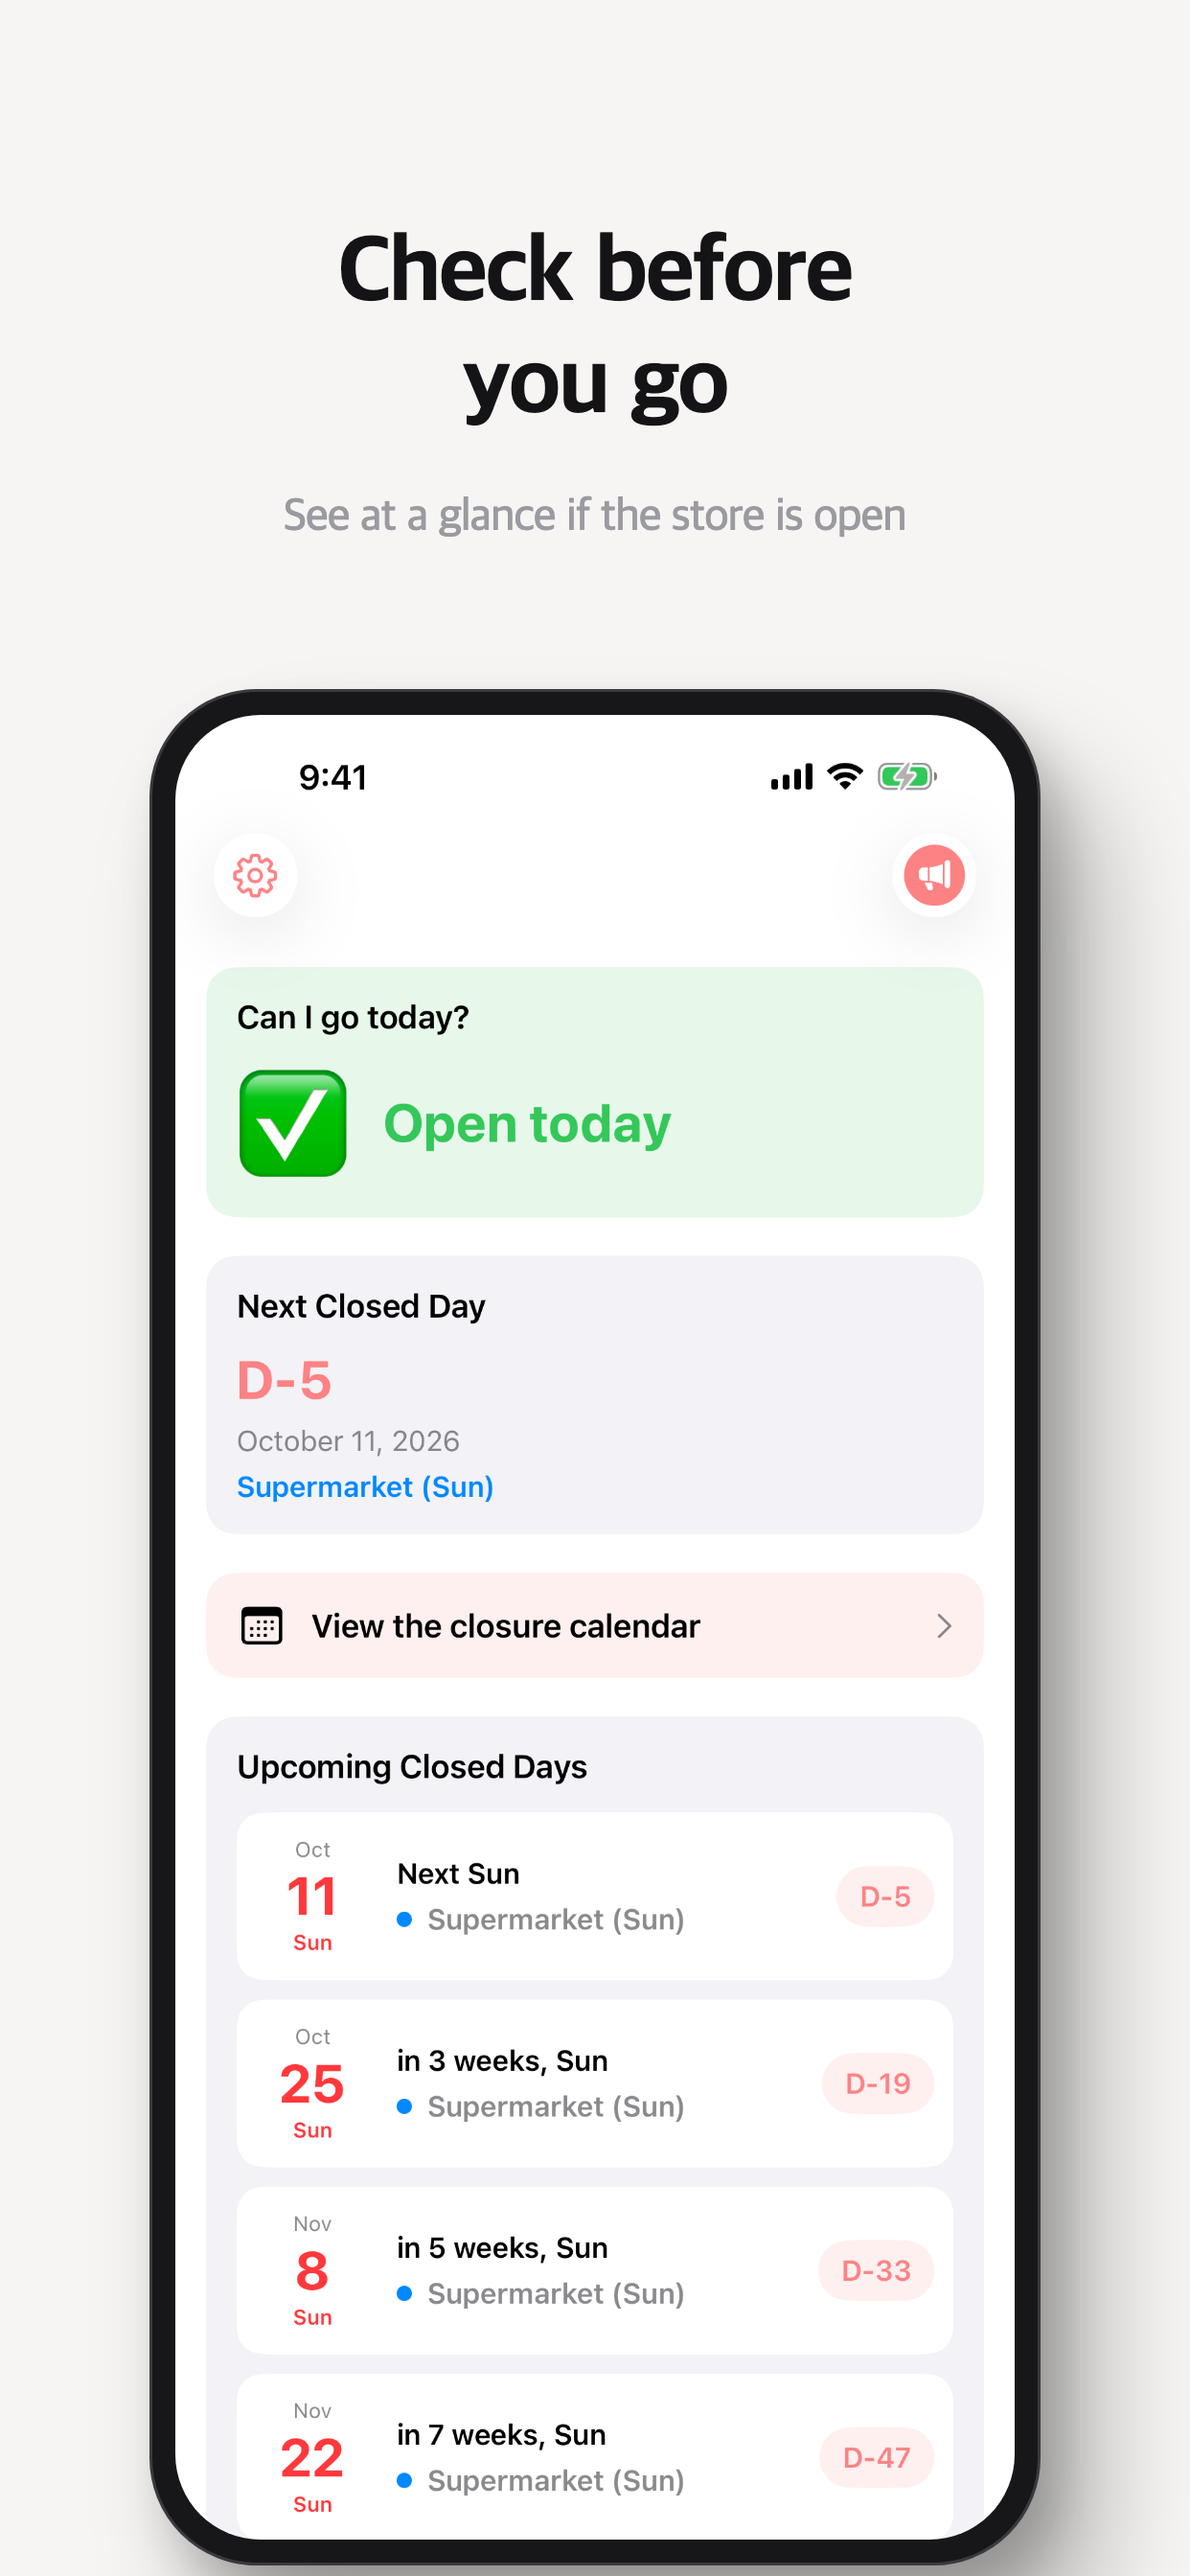
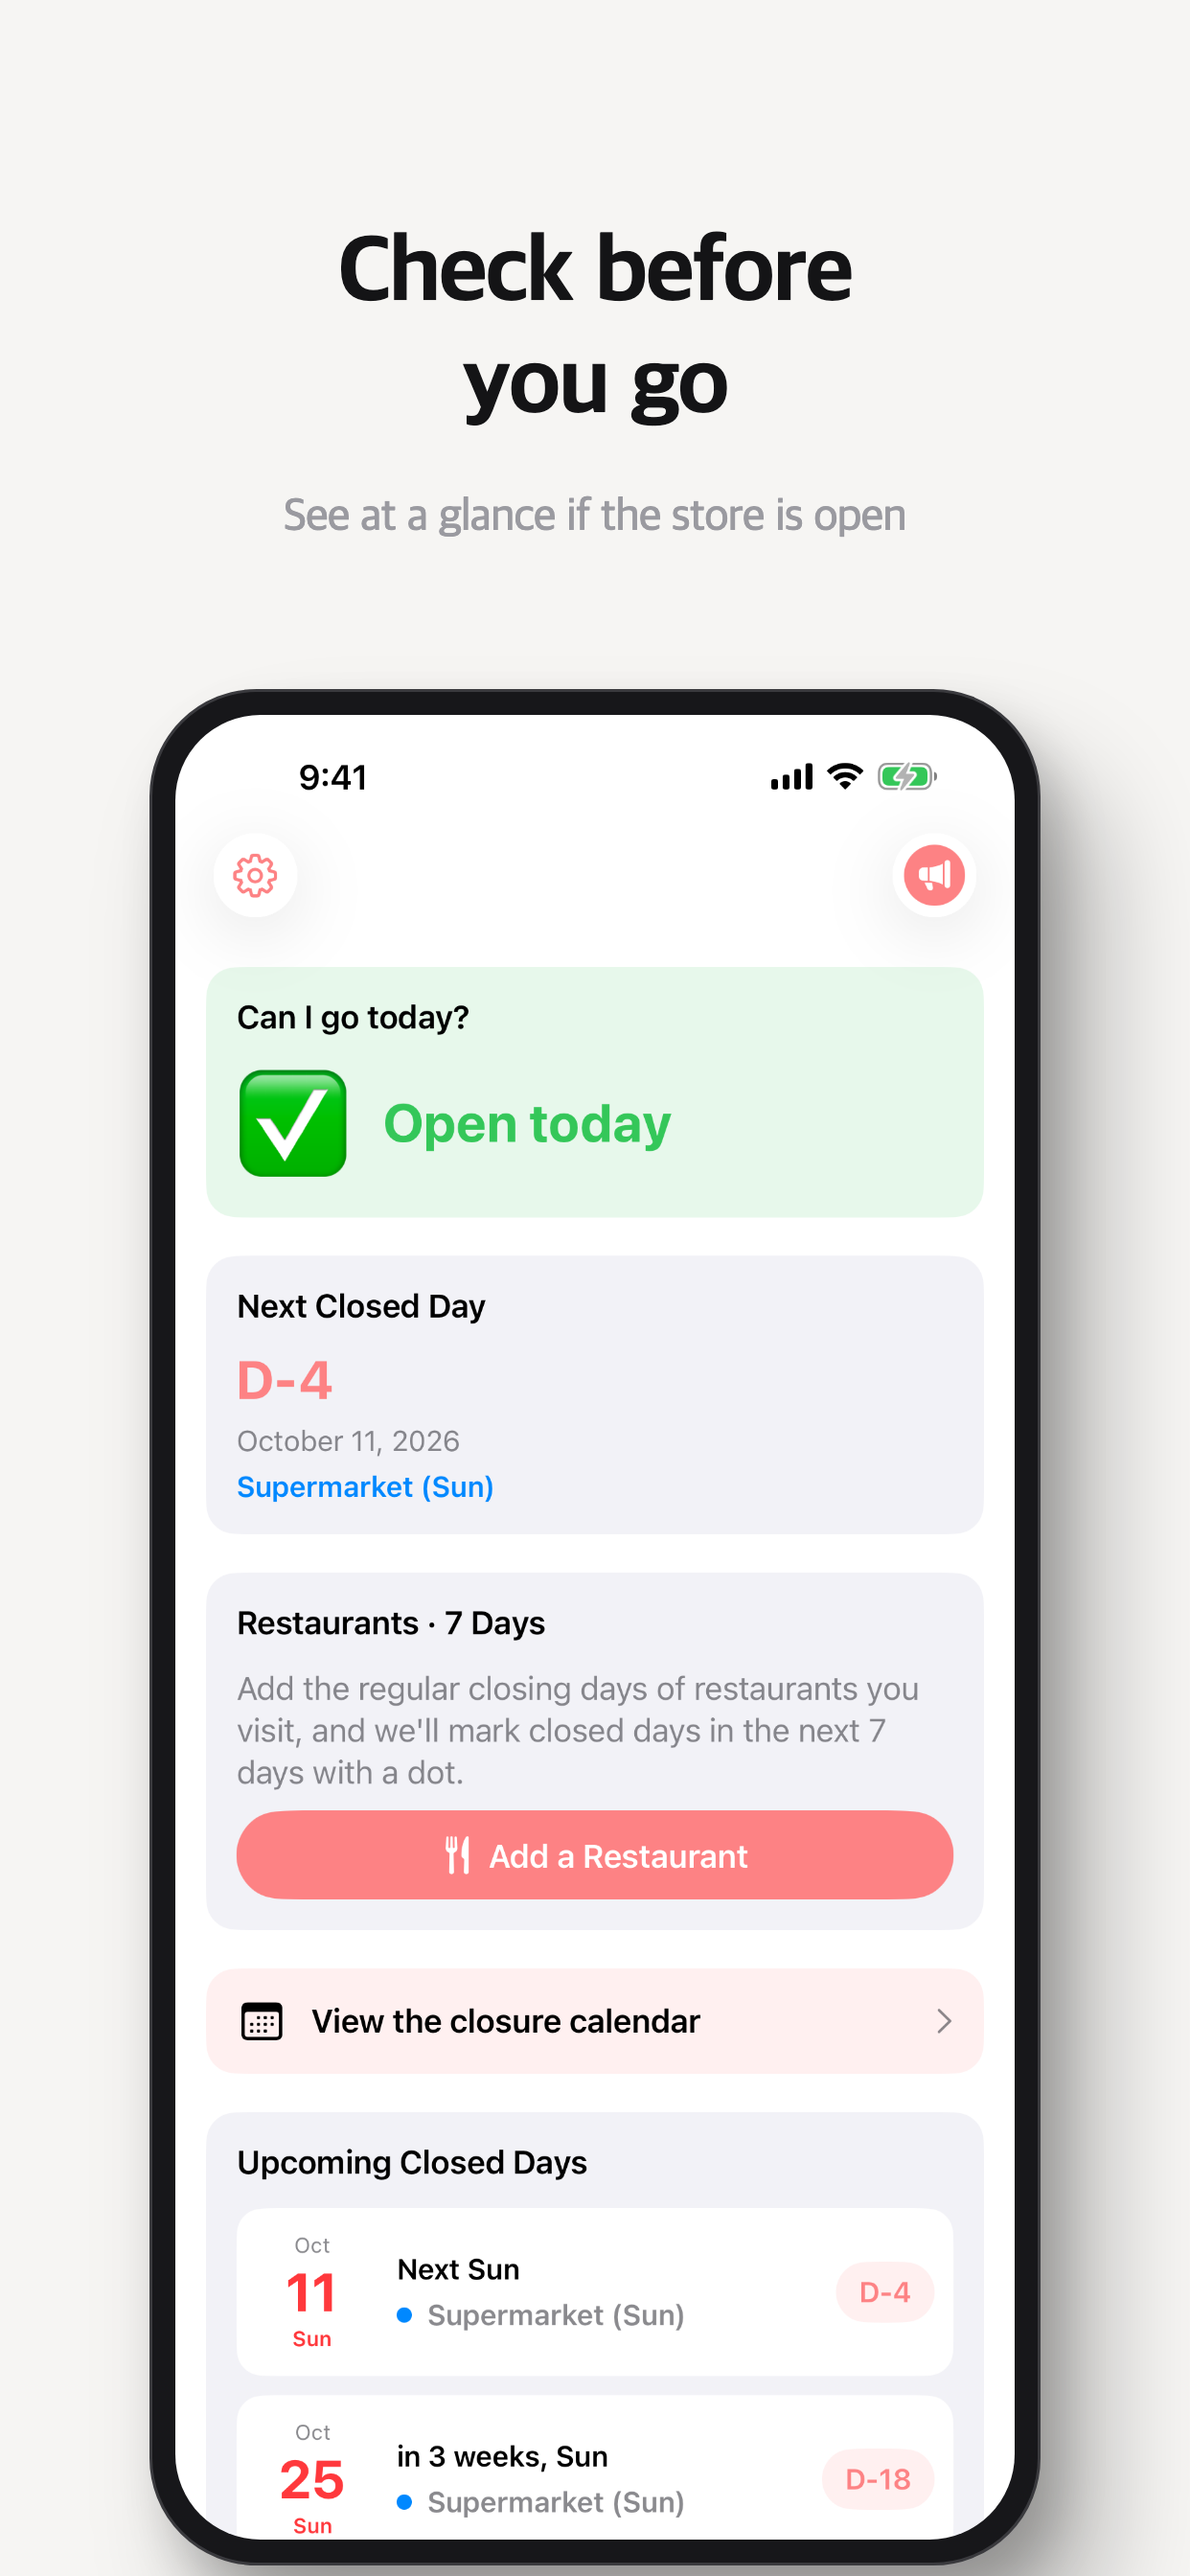
chore(배포): 2.0.8 문구·스크린샷에 단골 식당·공유 업그레이드를 반영한다
원격에서 들어온 단골 식당 정기휴무(43b0967)와 공유 카드 업그레이드(a028648)가
릴리즈노트·스토어 문구에 빠져 있었다.

- RELEASE_NOTES.md 2.0.8 (ko, en): 단골 식당, 네이버지도·사진 가져오기,
  인스타 스토리·동영상 공유, 휴무 임박 배너, 설정 위치 — 5줄
- APPSTORE.md (ko, en): 프로모션 텍스트, 설명(단골 식당 절, 위젯·공유 문장), 키워드(식당·맛집·정기휴무 / restaurant)
- 스크린샷 01-main, 05-share 다시 촬영 (ko, en) — 단골 식당 카드, 위젯 느낌 공유 카드

diff --git a/APPSTORE.md b/APPSTORE.md
@@ -16,11 +16,11 @@ DeployBar 가 이 파일을 읽어 App Store Connect 의 언어별 칸에 올린
 
 ### 키워드
 
-대형마트,휴업,쉬는날,문닫는날,영업일,영업시간,장보기,일요일,수요일,창고형,달력,캘린더,명절,설날,추석,제주,울산,대구,일산,할인점,동네,알리미,쇼핑,오픈,휴점,마감
+대형마트,휴업,쉬는날,문닫는날,영업일,영업시간,장보기,식당,맛집,정기휴무,일요일,수요일,창고형,달력,캘린더,명절,설날,추석,제주,울산,대구,일산,쇼핑,휴점
 
 ### 프로모션 텍스트
 
-쉬는 날이 다가오면 앱을 열자마자 화면 위에 알려 드려요. 휴무 소식은 위젯 모양 카드로 만들어 가족에게 바로 보내 보세요.
+이제 단골 식당이 쉬는 날도 챙겨요. 네이버지도 링크나 사진 한 장으로 휴무일을 가져오고, 마트 쉬는 날이 다가오면 화면 위에 바로 알려 드려요.
 
 ### 설명
 
@@ -36,14 +36,17 @@ DeployBar 가 이 파일을 읽어 App Store Connect 의 언어별 칸에 올린
 우리 동네 마트를 직접 추가해요
 목록에 없는 매장은 둘째, 넷째 일요일처럼 몇째 주 무슨 요일에 쉬는지 정해서 나만의 마트로 등록하세요.
 
+단골 식당 쉬는 날도 함께
+자주 가는 식당의 정기 휴무를 넣어 두면 앞으로 7일 중 쉬는 날을 점으로 보여 드립니다. 네이버지도에서 식당을 공유해 복사한 링크를 붙여넣거나, 식당 정보 화면 스크린샷을 고르면 휴무일을 알아서 채워 줘요. 사진 속 글자는 기기 안에서만 읽습니다.
+
 잊지 않게 알려 드려요
 휴무 1일, 2일, 3일, 7일 전 중에 고르고 원하는 시각에 알림을 받습니다. 휴무 전날에는 오늘이 장보기 좋은 날이라고 한 번 더 알려 드려요. 쉬는 날이 사흘 안으로 다가오면 앱 화면 위에도 배너로 보여 드립니다.
 
 홈 화면과 잠금 화면 위젯
-가까운 휴무일, 다음 두 번의 휴무일과 남은 날짜, 이번 주 일요일 영업 여부를 위젯으로 확인하세요. 이번 주 일요일 위젯은 잠금 화면에도 둘 수 있습니다.
+가까운 휴무일, 다음 두 번의 휴무일과 남은 날짜, 이번 주 일요일 영업 여부, 단골 식당의 7일 휴무를 위젯으로 확인하세요. 이번 주 일요일 위젯과 단골 식당 위젯은 잠금 화면에도 둘 수 있습니다.
 
 달력과 공유
-달력에서 한 달 치 휴무일을 한 번에 보고, 휴무 소식을 위젯 모양 카드로 만들어 가족과 친구에게 보내세요.
+달력에서 한 달 치 휴무일을 한 번에 보고, 휴무 소식은 2주 달력과 장보기 팁이 담긴 카드로 만들어 보내세요. 인스타그램 게시물과 스토리 규격, 짧은 동영상으로도 만들 수 있어요.
 
 모든 기능은 무료입니다. 도움이 되었다면 커피 한 잔으로 개발을 응원해 주세요.
 
@@ -67,11 +70,11 @@ Know before you go shopping
 
 ### 키워드
 
-grocery,supermarket,closing,closure,holiday,korea,calendar,reminder,widget,countdown,sunday,chuseok
+grocery,supermarket,restaurant,closing,closure,holiday,korea,calendar,reminder,widget,countdown
 
 ### 프로모션 텍스트
 
-Get a heads up at the top of the screen when a closed day is coming. Share the news as a card that looks just like a widget.
+Now covers your favorite restaurants too. Import their days off from a Naver Map link or a screenshot, and get a heads up when a store closure is near.
 
 ### 설명
 
@@ -87,14 +90,17 @@ Pick stores that close on Sundays or Wednesdays, or regions with their own rules
 Add your neighborhood store
 If a store isn't listed, add it yourself by choosing which weeks and which weekday it closes, for example the second and fourth Sunday.
 
+Your go-to restaurants, too
+Add the regular days off of restaurants you visit often and see which of them close in the next seven days. Paste a link shared from Naver Map or pick a screenshot of the restaurant's info page, and the closing days are filled in for you. Text in photos is read on your device only.
+
 Reminders that fit your routine
 Get an alert 1, 2, 3 or 7 days ahead at the time you choose, plus an optional reminder the day before that today is a good day to shop. When a closed day is three days away or less, a banner also appears at the top of the app.
 
 Home Screen and Lock Screen widgets
-Keep the nearest closed day, the next two closed days with a countdown, or this Sunday's open or closed status on your Home Screen. The Sunday widget works on the Lock Screen as well.
+Keep the nearest closed day, the next two closed days with a countdown, this Sunday's open or closed status, or your restaurants' next seven days on your Home Screen. The Sunday and restaurant widgets work on the Lock Screen as well.
 
 Calendar and sharing
-Browse a full month of closed days in the calendar, and send the news to family and friends as a card that looks like a widget.
+Browse a full month of closed days in the calendar, and send the news as a card with a two-week calendar and a shopping tip. Cards come in Instagram post and Story sizes, and as short videos.
 
 Every feature is free. If the app saves you a trip, you can support development with a coffee.
 
